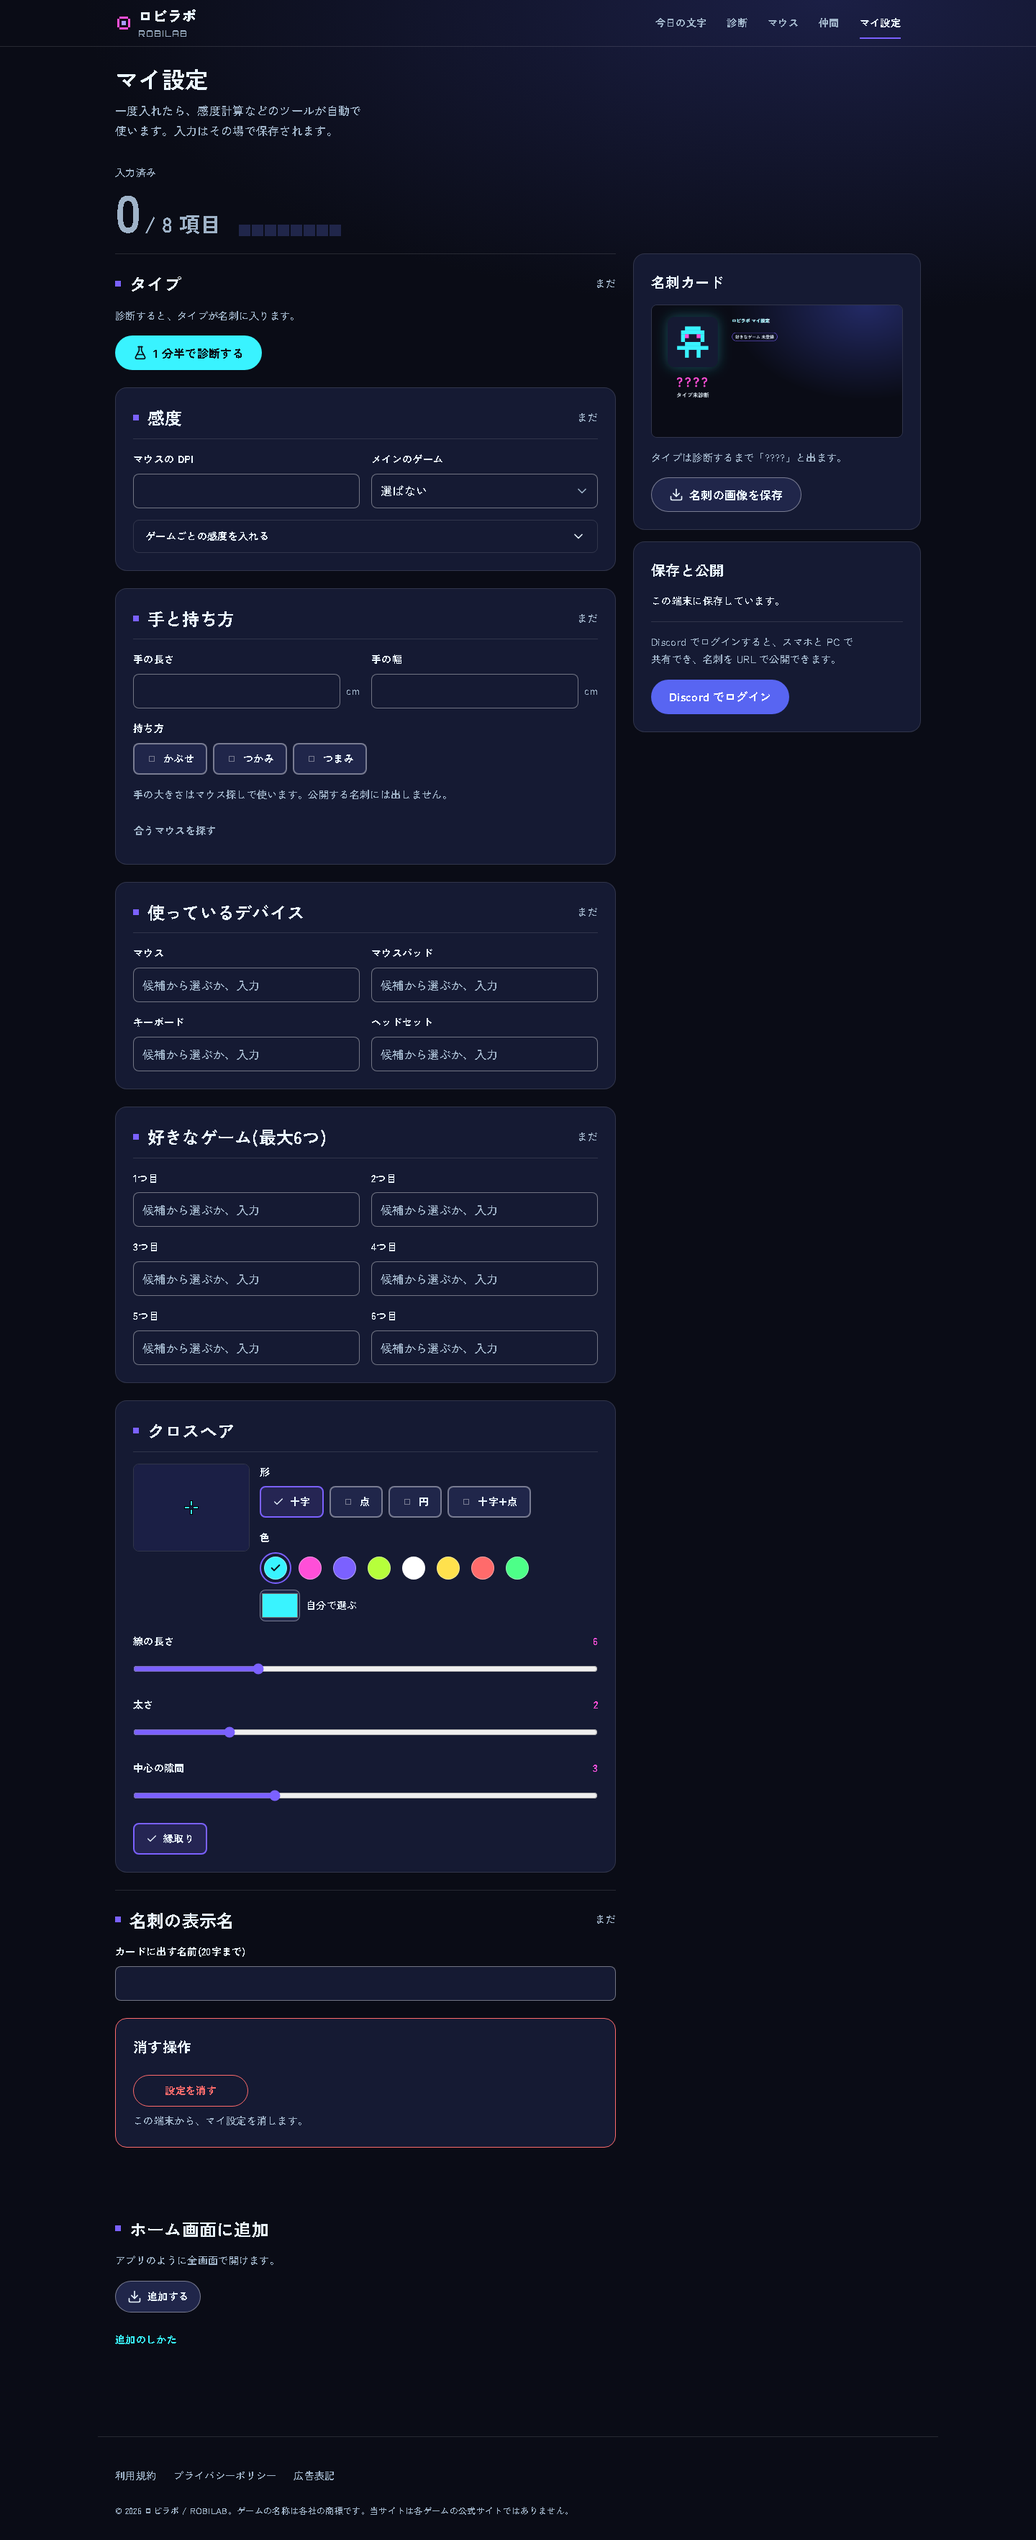
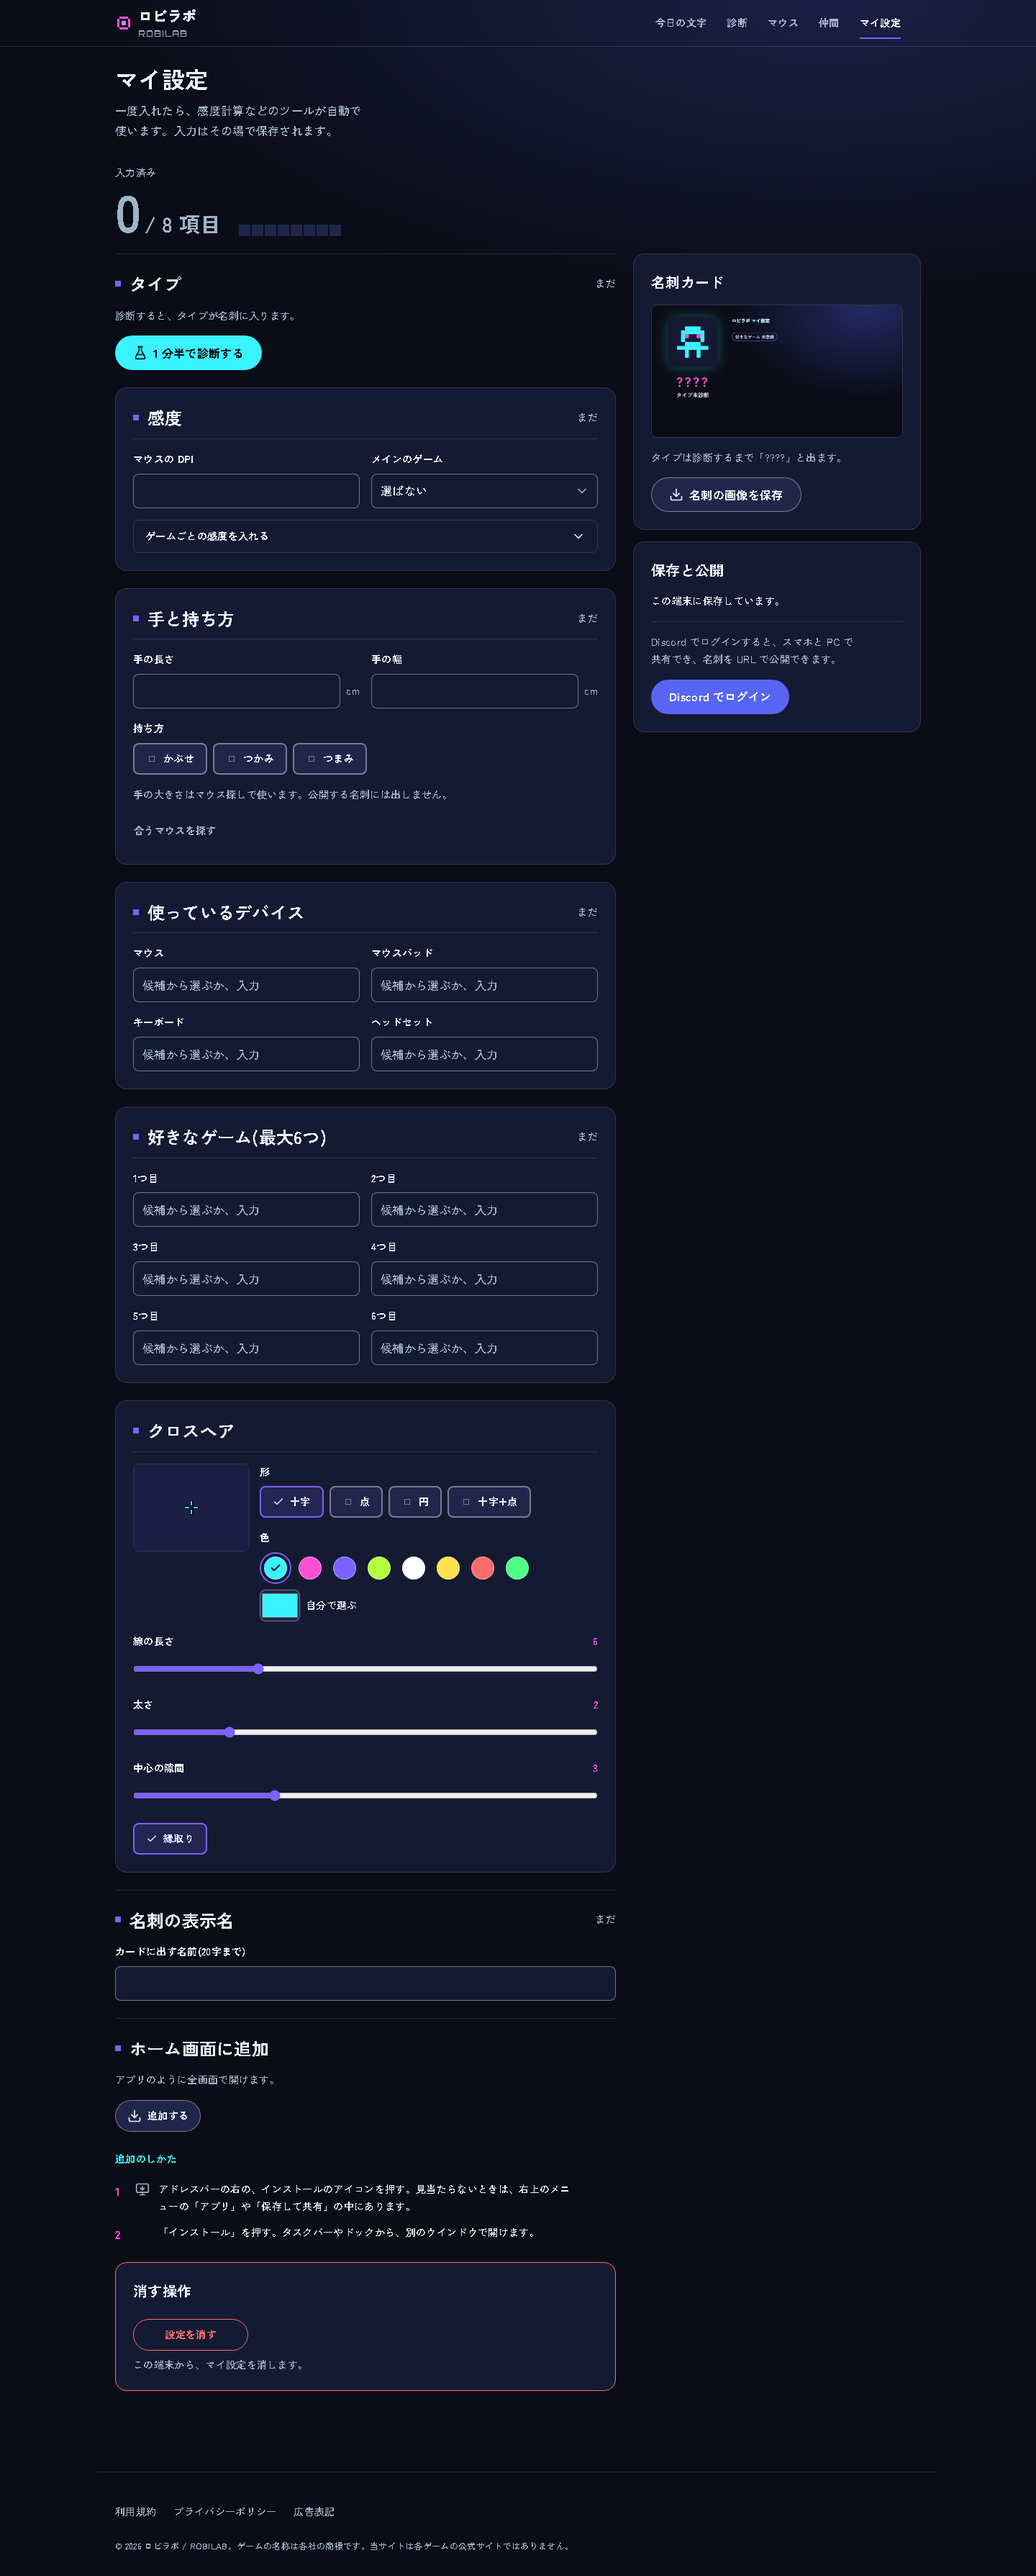
fix: /my のホーム画面に追加の段を消す操作の上へ・手順の幅を 40em まで

Changed region(s): [[0.0938, 0.0, 0.5938, 0.9354], [0.625, 0.0935, 0.875, 0.3118]]

diff --git a/src/components/my/MySettingsEditor.tsx b/src/components/my/MySettingsEditor.tsx
@@ -139,7 +139,7 @@ function SensSection({ draft, errors, update, filled }: { draft: MySettings; err
   );
 }
 
-export function MySettingsEditor() {
+export function MySettingsEditor({ installHint }: { installHint?: ReactNode }) {
   const { draft, errors, update: save, loggedIn, slug, status, serverError, revision, setPublic, removeAll } = useMySettings();
   const type = draft.typeCode ? getType(draft.typeCode) : undefined;
   const valid = Object.keys(errors).length === 0;
@@ -166,7 +166,7 @@ export function MySettingsEditor() {
         <ProgressCells total={progress.total} done={progress.done} pulse={pulse} />
       </div>
 
-      {/* スマホは「名刺 → 項目 → 保存と公開 → 消す操作」の順。1024px 以上は右の列に名刺と保存と公開を固定する */}
+      {/* スマホは「名刺 → 項目 → 保存と公開 → ホーム画面に追加 → 消す操作」の順。1024px 以上は右の列に名刺と保存と公開を固定する */}
       <div className="contents lg:sticky lg:top-6 lg:col-start-2 lg:row-span-2 lg:row-start-2 lg:grid lg:gap-4">
         <div className="order-1 min-w-0 lg:order-none"><CardPreview data={valid ? toPublicCardData(draft) : null} rewrite={pulse !== null} hasType={Boolean(type)} /></div>
         <div className="order-3 min-w-0 lg:order-none">
@@ -240,7 +240,9 @@ export function MySettingsEditor() {
         </Section>
       </div>
 
-      <div className="order-4 min-w-0 lg:order-none lg:col-start-1 lg:row-start-3">
+      {/* 「ホーム画面に追加」の段は消す操作の上(取り消せない操作はページの最後に置く) */}
+      <div className="order-4 grid min-w-0 gap-6 lg:order-none lg:col-start-1 lg:row-start-3">
+        {installHint}
         <MyDangerZone loggedIn={loggedIn} onRemove={removeAll} />
       </div>
     </div>

diff --git a/src/components/my/MySettingsClient.tsx b/src/components/my/MySettingsClient.tsx
@@ -1,11 +1,12 @@
 "use client";
-import { useDeferredValue } from "react";
+import { useDeferredValue, type ReactNode } from "react";
 import { useIsClient } from "@/lib/use-is-client";
 import { LoadingRegion, Skeleton } from "@/components/ui/skeleton";
 import { MySettingsEditor } from "./MySettingsEditor";
 
 /** localStorage はブラウザでしか読めないので、ハイドレーションが終わってからエディターを出す。読み込み中は項目と名刺の形を置く。 */
-export function MySettingsClient() {
+/** installHint:「ホーム画面に追加」の段(サーバーで描いて渡す)。エディターの中で「消す操作」の上に置く */
+export function MySettingsClient({ installHint }: { installHint?: ReactNode }) {
   // 表示速度(docs/design/perf.md):エディターの最初の描画は大きい(CPU が遅い端末で 1 回 0.5 秒ほどの長い処理になっていた)。
   // useDeferredValue で後回しの描画にすると、React が途中で手を離せるので、長い処理に分かれず、入力や描画を止めない。中身は同じ。
   const isClient = useDeferredValue(useIsClient(), false);
@@ -16,5 +17,5 @@ export function MySettingsClient() {
       <div className="grid gap-6 lg:col-start-1 lg:row-start-2">{[0, 1, 2].map((i) => <Skeleton key={i} className="h-48 w-full rounded-rl-md" />)}</div>
     </LoadingRegion>
   );
-  return <MySettingsEditor />;
+  return <MySettingsEditor installHint={installHint} />;
 }

diff --git a/tests/pwa/install-hint-view.test.ts b/tests/pwa/install-hint-view.test.ts
@@ -74,6 +74,17 @@ describe("置き場所(設計書 4-1)", () => {
     expect(readFileSync("src/app/my/page.tsx", "utf8")).toContain('<InstallHintBlock place="my"');
     expect(readFileSync("src/app/page.tsx", "utf8")).not.toContain("InstallHint");
   });
+  it("/my の段は「消す操作」より上(取り消せない操作はページの最後)", () => {
+    expect(readFileSync("src/app/my/page.tsx", "utf8")).toMatch(/<MySettingsClient installHint=\{<InstallHintBlock place="my"/);
+    expect(readFileSync("src/components/my/MySettingsClient.tsx", "utf8")).toContain("<MySettingsEditor installHint={installHint} />");
+    const editor = readFileSync("src/components/my/MySettingsEditor.tsx", "utf8");
+    expect(editor.indexOf("{installHint}")).toBeGreaterThan(0);
+    expect(editor.indexOf("{installHint}")).toBeLessThan(editor.indexOf("<MyDangerZone"));
+    expect(editor.indexOf("<MyDangerZone")).toBe(editor.lastIndexOf("<MyDangerZone"));
+  });
+  it("手順の幅は 40em まで(1440 で 1 行が長くならない)", () => {
+    expect(readFileSync("src/components/pwa/InstallSteps.tsx", "utf8")).toContain('<ol className="grid max-w-[40em] gap-3">');
+  });
   it("/aim はサーバーの今日の日付を渡し、AimClient は記録の直後に差し込む", () => {
     expect(readFileSync("src/app/aim/page.tsx", "utf8")).toMatch(/installHint=\{<InstallHintBlock place="aim" today=\{date\}/);
     const client = readFileSync("src/app/aim/AimClient.tsx", "utf8");

diff --git a/src/app/my/page.tsx b/src/app/my/page.tsx
@@ -11,8 +11,7 @@ export const metadata: Metadata = {
 export default function MyPage() {
   return (
     <PageShell width="wide" title="マイ設定" description="一度入れたら、感度計算などのツールが自動で使います。入力はその場で保存されます。">
-      <MySettingsClient />
-      <InstallHintBlock place="my" className="mt-rl-ma-md" />
+      <MySettingsClient installHint={<InstallHintBlock place="my" className="border-t border-rl-line pt-6" />} />
     </PageShell>
   );
 }

diff --git a/src/components/pwa/InstallSteps.tsx b/src/components/pwa/InstallSteps.tsx
@@ -13,7 +13,7 @@ function Step({ n, icon: Icon, children }: { n: number; icon?: LucideIcon; child
 }
 
 function Steps({ children }: { children: ReactNode }) {
-  return <ol className="grid gap-3">{children}</ol>;
+  return <ol className="grid max-w-[40em] gap-3">{children}</ol>;
 }
 
 /** iPhone・iPad(Safari 以外のブラウザも同じ共有メニューから追加できる。iOS 16.4 以上) */
